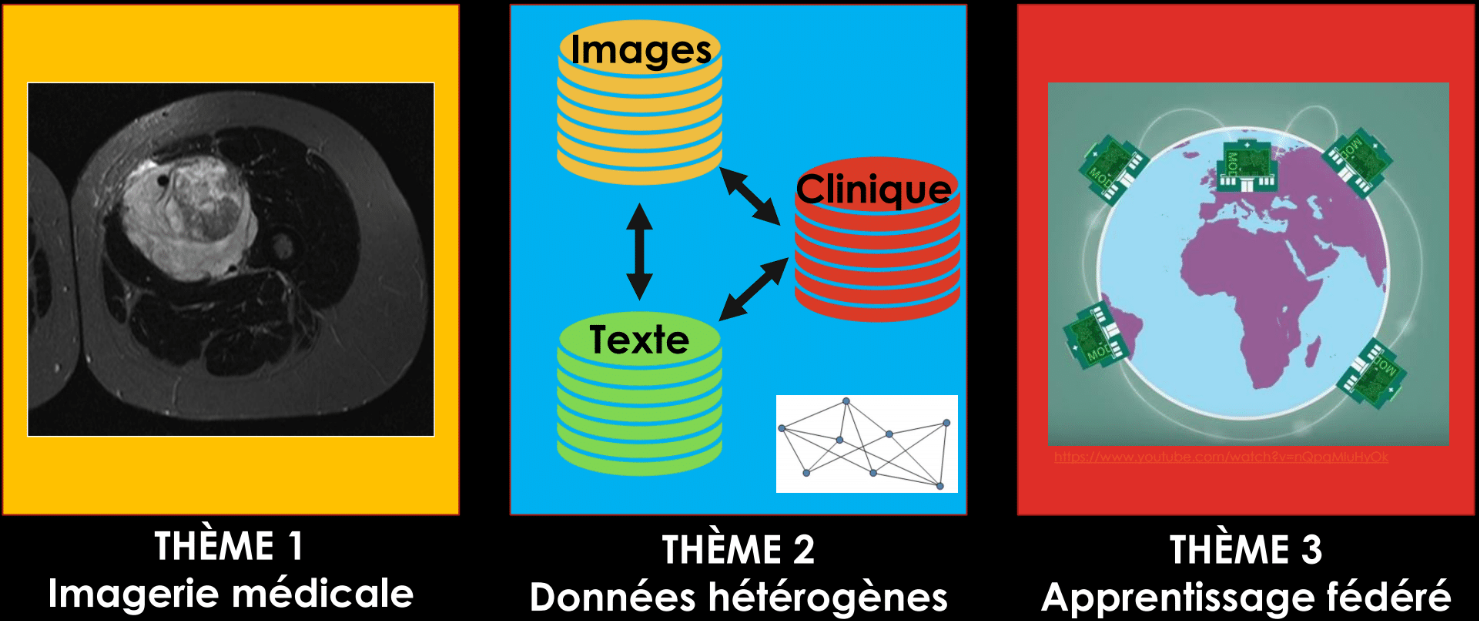
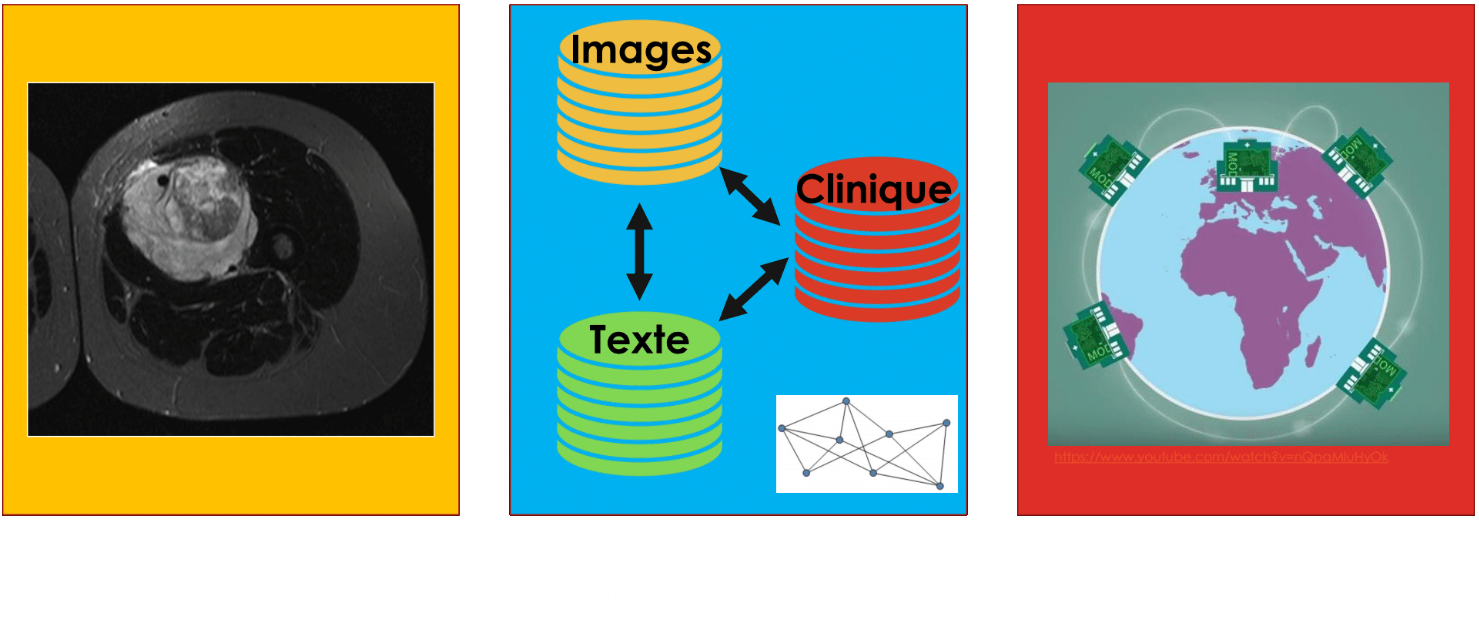
commit

Changed region(s): [[0.0, 0.0, 1.0, 1.0]]

diff --git a/content/fr/about/index.md b/content/fr/about/index.md
@@ -7,7 +7,3 @@ type: widget_page
 # Homepage is headless, other widget pages are not.
 headless: false
 ---
-
-image:
-  placement: 1
-  filename: themes.png

diff --git a/content/fr/about/themes.md b/content/fr/about/themes.md
@@ -1,0 +1,12 @@
+---
+widget: blank
+headless: true
+weight: 9
+design:
+  columns: "1"  
+  background:
+    image: themes.png
+
+---
+
+
